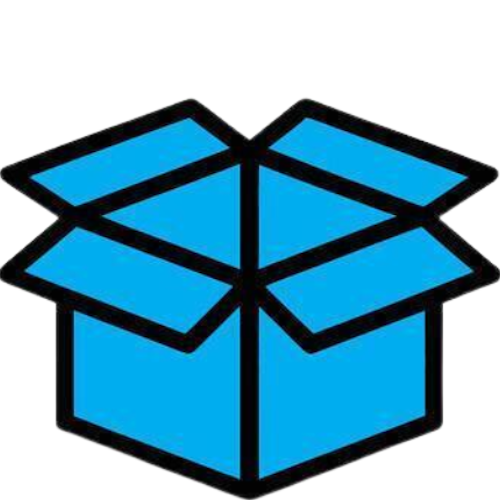
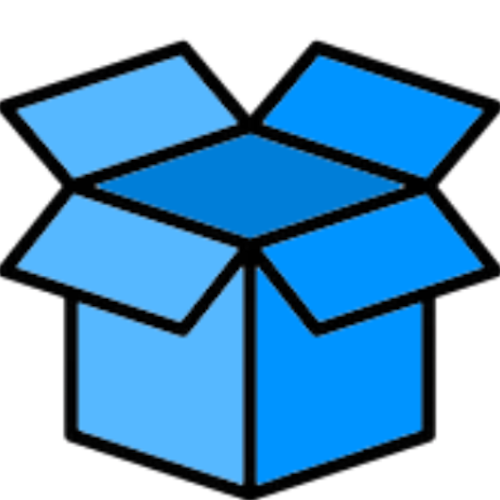
EcoSelecionado - accepted trash images improved

diff --git a/src/components/Modal/ecopontoSelecionado.tsx b/src/components/Modal/ecopontoSelecionado.tsx
@@ -8,6 +8,8 @@ import imgVidro from '../../assets/vidro.png';
 import imgOleao from '../../assets/oleao.png';
 import imgPilhao from '../../assets/pilhao.png';
 
+import './ecopontoSelecionado.css'
+
 const ModalPageEcoSelecionado: React.FC = () => {
     const { selectedEcoponto } = useContext(EcopontosContext);
 
@@ -20,13 +22,13 @@ const ModalPageEcoSelecionado: React.FC = () => {
                     </h4>
                 </IonToolbar>
             </IonHeader>
-            <IonContent>
-                <div style={{ backgroundColor: 'red' }}>
+            <IonContent className='contentEcoSelecionado'>
+                <div className='containerPodeDepositar'>
                     {selectedEcoponto?.Tem_papel && <img src={imgPapel} />}
-                    {selectedEcoponto?.Tem_plastico && <img src={imgPlastico} />}
+                    {selectedEcoponto?.Tem_plastico && <img style={{marginLeft: '5px'}} src={imgPlastico} />}
                     {selectedEcoponto?.Tem_vidro && <img src={imgVidro} />}
-                    {selectedEcoponto?.Tem_oleao && <img src={imgOleao} />}
-                    {selectedEcoponto?.Tem_pilhao && <img src={imgPilhao} />}
+                    {selectedEcoponto?.Tem_oleao && <img style={{marginRight: '-2px'}} src={imgOleao} />}
+                    {selectedEcoponto?.Tem_pilhao && <img style={{marginRight: '-7px'}} src={imgPilhao} />}
                 </div>
             </IonContent>
         </IonPage>

diff --git a/src/components/Modal/modalEcopontos.tsx b/src/components/Modal/modalEcopontos.tsx
@@ -47,7 +47,7 @@ const ModalPageEcopontos: React.FC = () => {
                         }, 100);
                     }}
                 >
-                    <img src={markerEcoponto} />
+                    <img src={markerEcoponto} className='markerEcoponto'/>
                     <IonLabel>
                         <h2>{eco.Morada}</h2>
                     </IonLabel>

diff --git a/src/components/Modal/ecopontoSelecionado.css b/src/components/Modal/ecopontoSelecionado.css
@@ -1,0 +1,13 @@
+.containerPodeDepositar {
+    display: flex;
+    justify-content: center;
+    gap: 10px;
+}
+
+.containerPodeDepositar img {
+    width: 65px;
+}
+
+ion-content.contentEcoSelecionado {
+    --background: red;
+}

diff --git a/src/components/Modal/modalEcopontos.css b/src/components/Modal/modalEcopontos.css
@@ -11,7 +11,7 @@ ion-header {
     min-height: 50px;
 }
 
-img {
+img.markerEcoponto {
     width: 22px;
     margin-right: 4%;
 }
